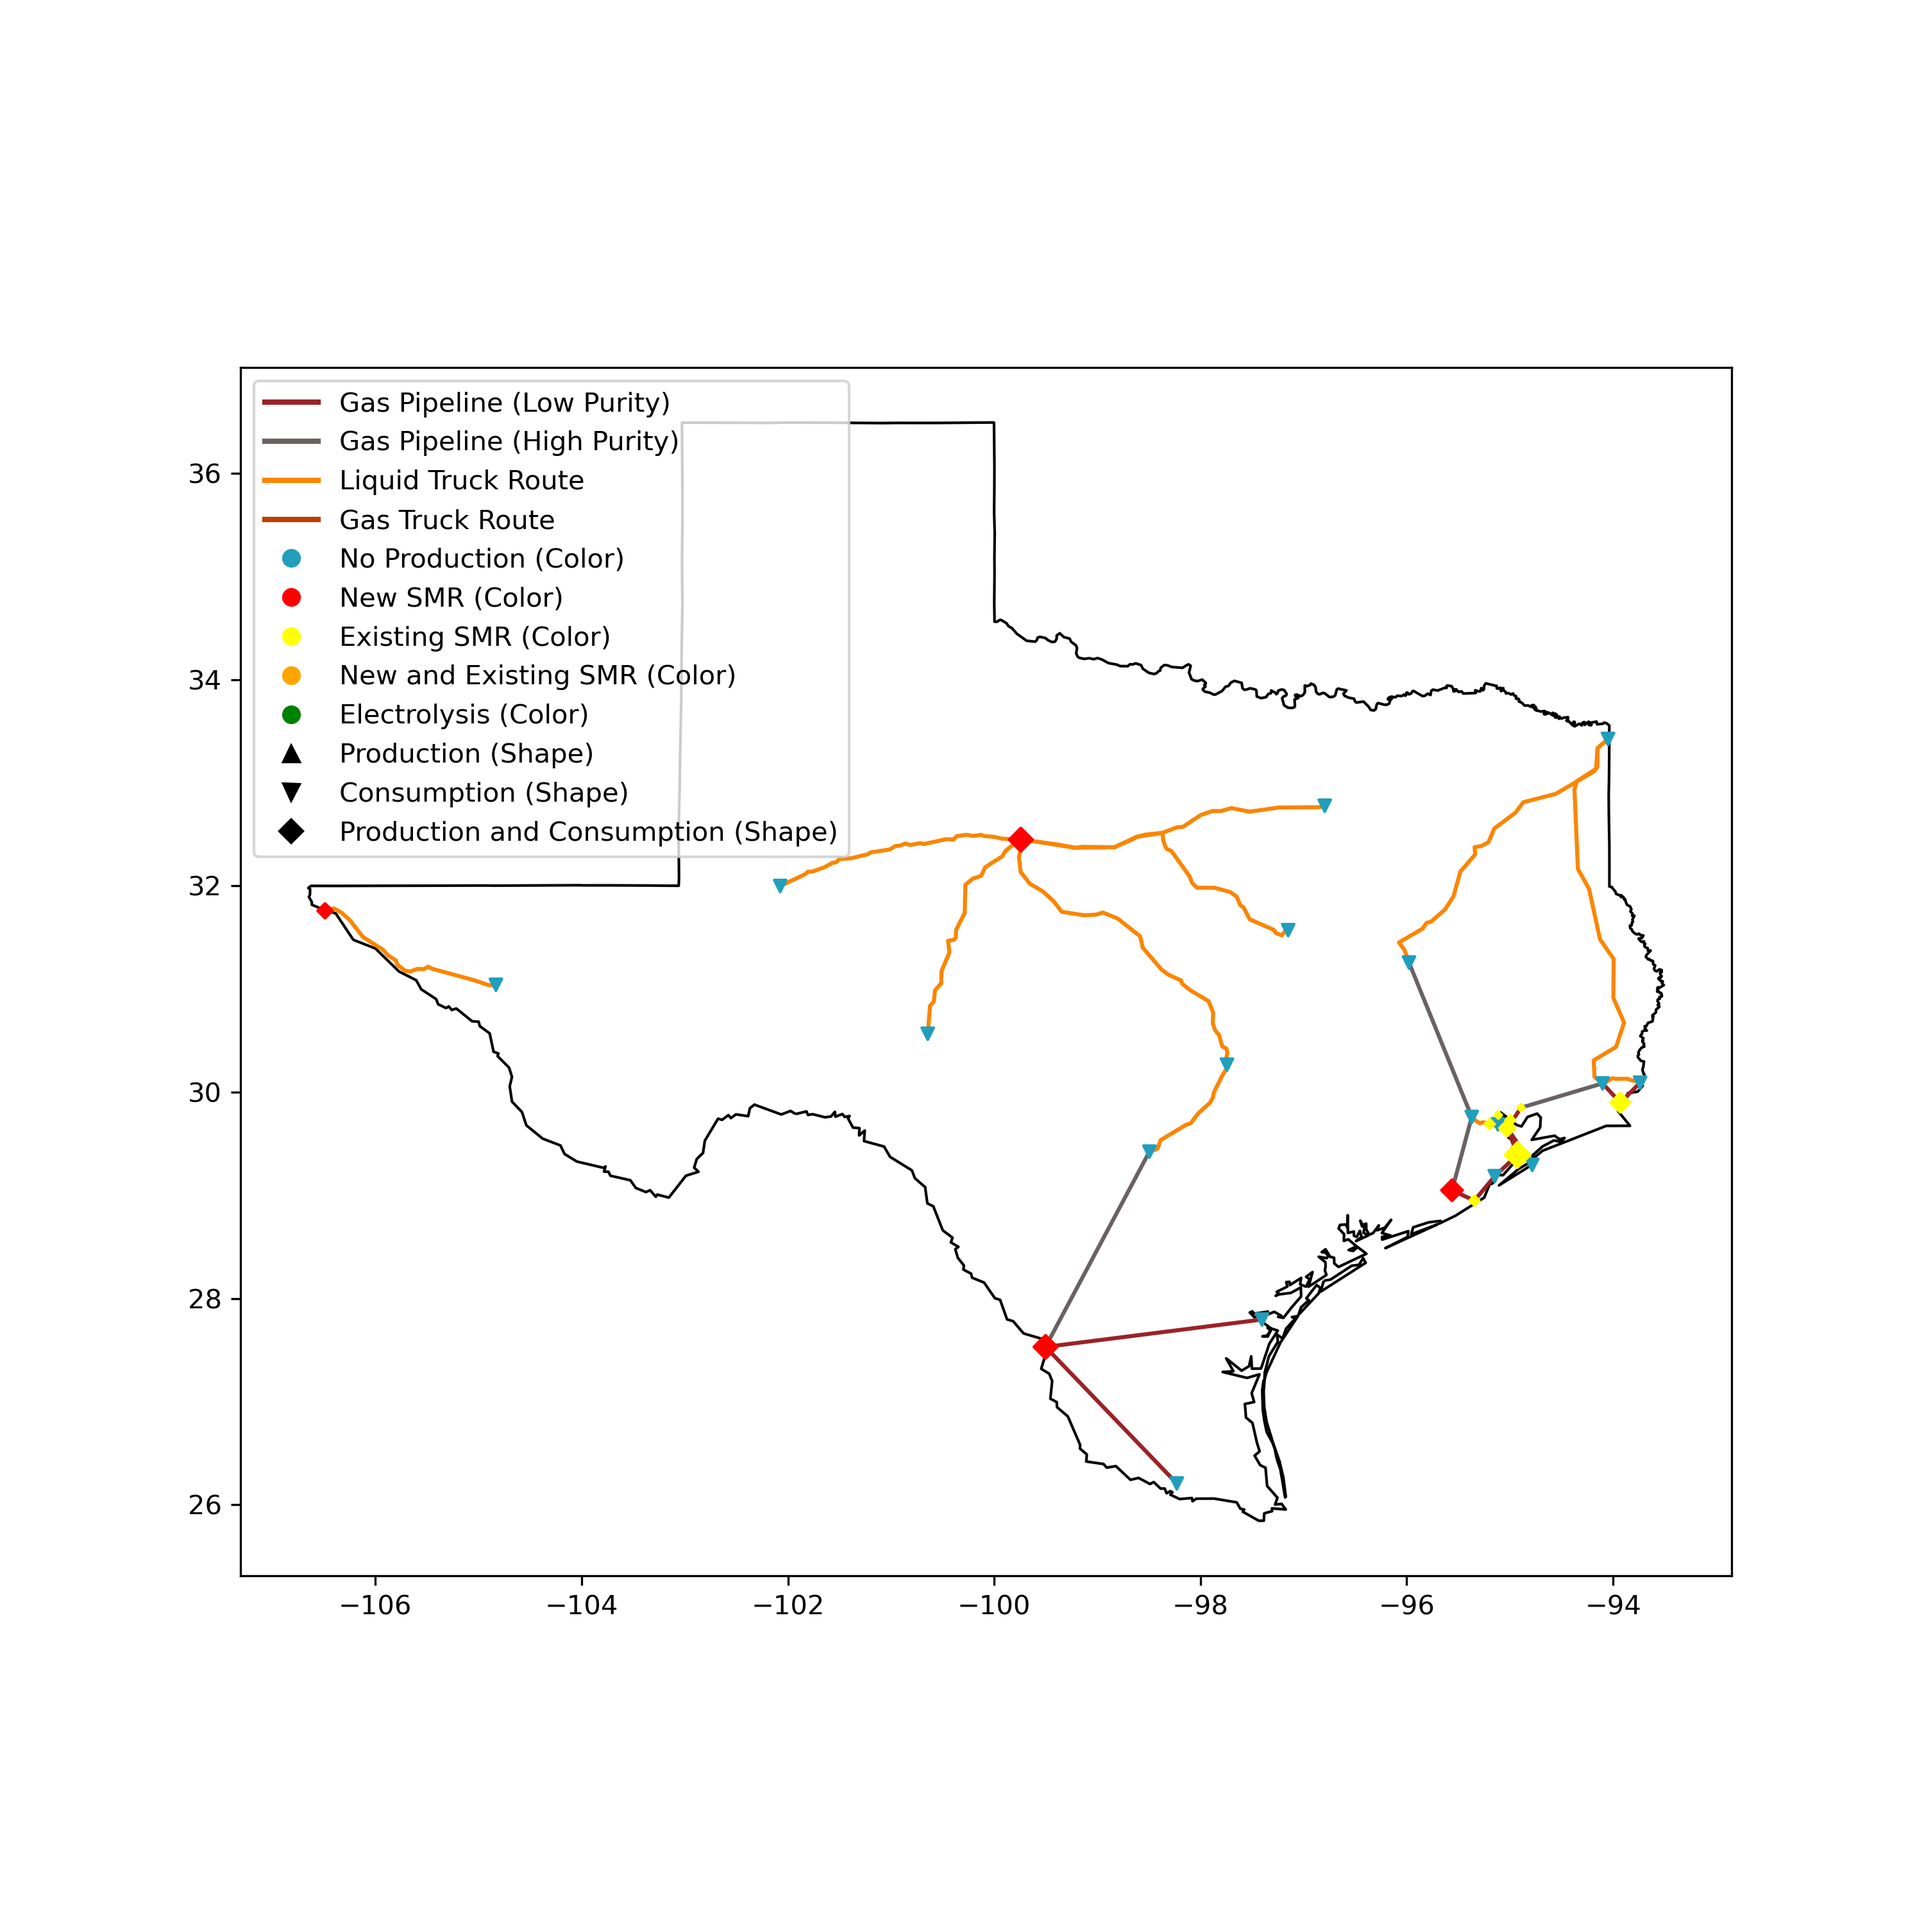
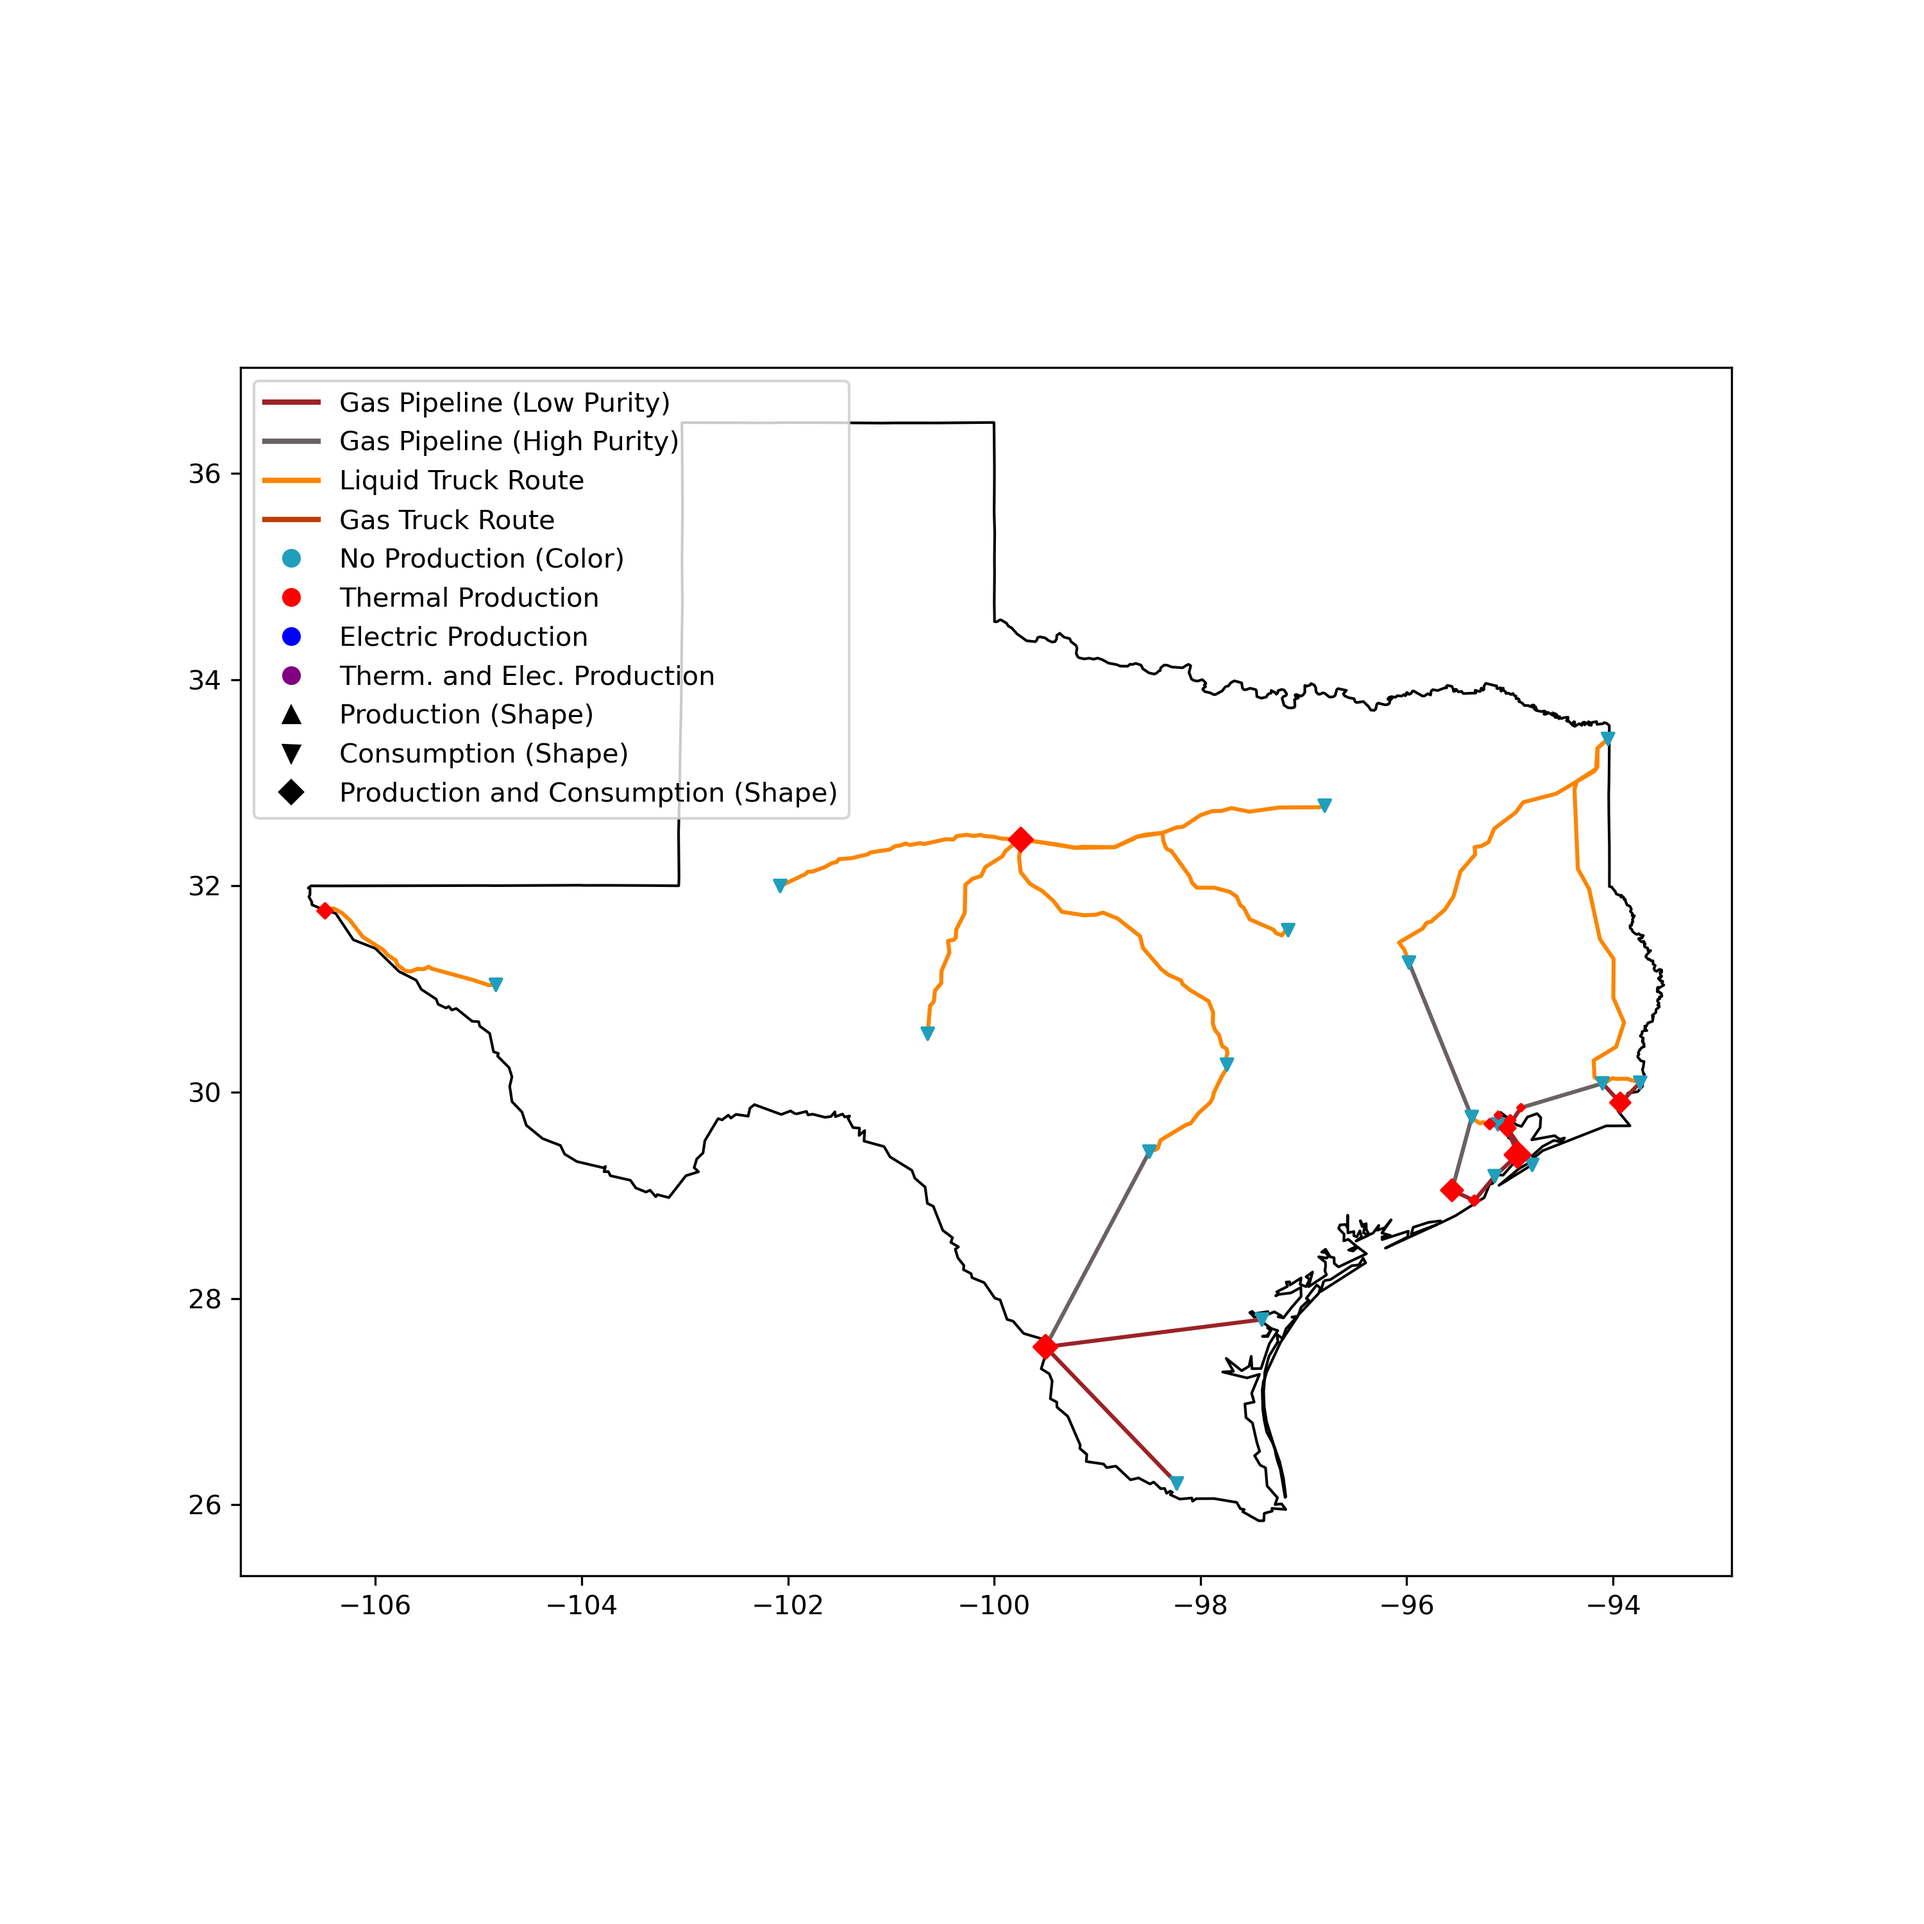
figure plots thermal vs electric production as opposed to unique production types

Changed region(s): [[0.124, 0.31, 0.434, 0.465], [0.775, 0.558, 0.806, 0.62], [0.124, 0.341, 0.155, 0.372]]

diff --git a/data/create_plot.py b/data/create_plot.py
@@ -7,6 +7,7 @@ but the metadata should be fairly easy to access and utilize.
 """
 import json
 import warnings
+from itertools import combinations
 
 import geopandas as gpd
 import matplotlib.pyplot as plt
@@ -21,12 +22,36 @@ except ModuleNotFoundError:
 warnings.simplefilter(action="ignore", category=UserWarning)
 
 
-def main(data, data_dir, scenario_dir):
+def all_possible_combos(l: list) -> list:
+    """Returns a list of all possible combos as sets
+
+    For example
+
+    all_possible_combos([1,2,3])
+    returns
+    [{1}, {2}, {3}, {1, 2}, {1, 3}, {2, 3}, {1, 2, 3}]
+
+    This function is used for filtering dataframes.
+    The dataframe has a set corresponding to the production
+    types at each hub. For example, a hub could have a corresponding
+    production value of {"smr","smrExisting"} or just {"smr",}, and we
+    want to see if all values of this set are in the list "l" of production
+    types (defined by therm/elec_production.csv "type" column).
+    To do this, we must turn "l" into a list of all possible combinations.
+
+    """
+    out = []
+    for length in range(len(l)):
+        out.extend([set(combo) for combo in combinations(l, length + 1)])
+    return out
+
+
+def main(data, data_dir, scenario_dir, prod_types):
     """
     data: outputs of model
     data_dir: location of data for hubs and shapefile
-    scenario_dir: figure outputted to scenario_dir/outputs/fig.png
-    therm_prod: thermal production dataframe
+    prod_types: dictionary with keys "thermal" and "electric"
+                values are the production technologies (smr, electrolysis)
     """
 
     hub_data = json.load(open(data_dir / "hubs" / "hubs.geojson"))["features"]
@@ -161,7 +186,11 @@ def main(data, data_dir, scenario_dir):
 
     # Plot hubs
     hubs = distribution[distribution.type == "Point"]
-    hub_plot_tech = {  # Options for hub by technology
+
+    thermal_prod_types = all_possible_combos(prod_types["thermal"] + ["smrExisting"])
+    electric_prod_types = all_possible_combos(prod_types["electric"])
+    # Options for hub by technology
+    hub_plot_tech = {
         "default": {
             "name": "No Production (Color)",
             "color": "#219ebc",
@@ -169,47 +198,26 @@ def main(data, data_dir, scenario_dir):
             "set": None,
             "b": lambda df: df["production"].isnull(),
         },
-        "smr": {
-            "name": "New SMR (Color)",
+        "thermal": {
+            "name": "Thermal Production",
             "color": "red",
-            "set": set(("smr",)),
-            "b": lambda df: df["production"] == set(("smr",)),
+            "b": lambda df: df["production"].isin(thermal_prod_types),
         },
-        "smrExisting": {
-            "name": "Existing SMR (Color)",
-            "color": "yellow",
-            "set": set(("smrExisting",)),
-            "b": lambda df: df["production"] == set(("smrExisting",)),
+        "electric": {
+            "name": "Electric Production",
+            "color": "blue",
+            "b": lambda df: df["production"].isin(electric_prod_types),
         },
-        "smr+smrExisting": {
-            "name": "New and Existing SMR (Color)",
-            "color": "orange",
-            "set": set(("smr", "smrExisting")),
-            "b": lambda df: df["production"] == set(("smr", "smrExisting"))
-            # I want a better way to do this, but I could not find one
-            # I tried to find a way to have the color split, but
-            # a) I could not get it to work, and
-            # b) it seems you can only split with two colors in matplotlib
-            # ... seems like all the permutations will get hair fairly fast,
-            # we should probably find a way to do this
+        "both": {
+            "name": "Therm. and Elec. Production",
+            "color": "purple",
+            "b": lambda df: df["production"].isin(thermal_prod_types)
+            & df["production"].isin(electric_prod_types),
         },
-        "electrolyzer": {
-            "name": "Electrolysis (Color)",
-            "color": "green",
-            "set": set(("electrolyzer",)),
-            "b": lambda df: df["production"] == set(("electrolyzer",)),
-        }
-        # and so on... (ccs not implemented -> can't plot ccs, haven't gone through all combinations yet)
-        # TODO maybe have makers colored by percent production:
-        #   https://stackoverflow.com/questions/41167300/multiple-color-fills-in-matplotlib-markers
-        # or maybe only plot "smr","electrolysis","smr+electrolysis" where "smr" includes "smr" and "smrExisting"?
     }
-    hub_plot_type = {  # Options for hub by Production, Consumption, or both
-        # 'none' :
-        #     {
-        #         'b' : lambda df: df['production'].isnull() & df['consumption'].isnull(),
-        #         'marker' : '.',
-        #     },
+
+    # Options for hub by Production, Consumption, or both
+    hub_plot_type = {
         "production": {
             "name": "Production (Shape)",
             "b": lambda df: df["production"].notnull() & df["consumption"].isnull(),
@@ -226,6 +234,7 @@ def main(data, data_dir, scenario_dir):
             "marker": "D",
         },
     }
+
     # Plot hubs based on production/consumption (marker) options and production tech (color) options
     # in short, iterates over both of the above option dictionaries
     # the 'b' (boolean) key is a lambda function that returns the locations of where the hubs dataframe

diff --git a/hydrogen_model/read_inputs.py b/hydrogen_model/read_inputs.py
@@ -109,3 +109,9 @@ class HydrogenInputs:
             "price_hubs": self.price_hubs,
             "price_demand": self.price_demand,
         }
+
+    def get_prod_types(self) -> dict:
+        return {
+            "thermal": list(self.prod_therm["type"]),
+            "electric": list(self.prod_elec["type"]),
+        }

diff --git a/main.py b/main.py
@@ -37,11 +37,7 @@ def main():
         dump(output_json, f, ensure_ascii=False, indent=4)
 
     # create figure
-    create_plot(
-        output_json,
-        data_dir,
-        scenario_dir,
-    )
+    create_plot(output_json, data_dir, scenario_dir, H.get_prod_types())
 
 
 if __name__ == "__main__":
